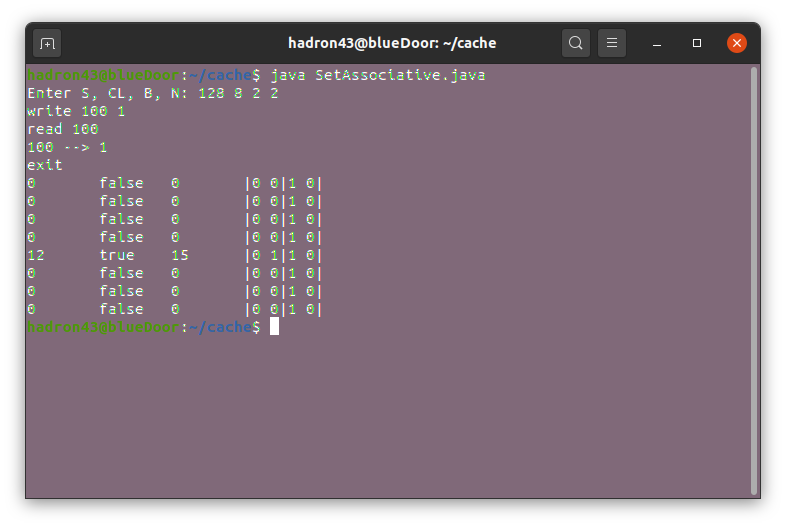
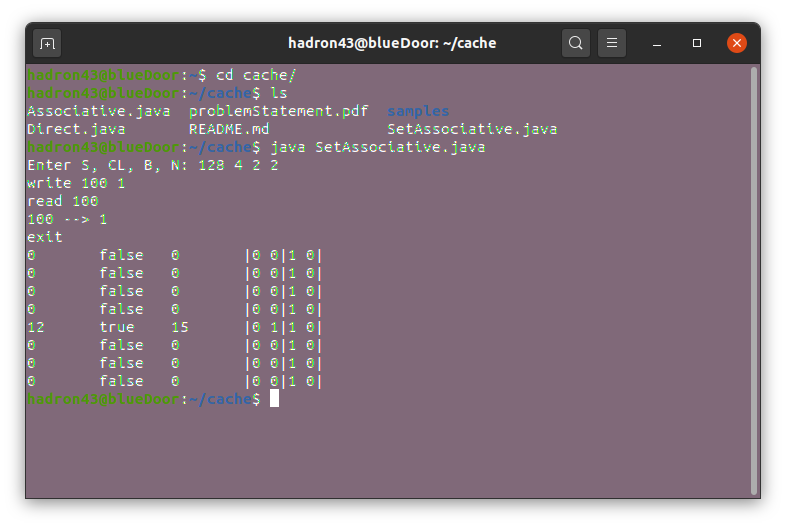
Changed the SetAssociate Screenshot Changed the No of Lines input

Changed region(s): [[0.0305, 0.1214, 0.7023, 0.5161], [0.0305, 0.6072, 0.4275, 0.7894]]

diff --git a/SetAssociative.java b/SetAssociative.java
@@ -165,7 +165,7 @@ public class SetAssociative {
         int B = sc.nextInt();
         int N = sc.nextInt();
         
-        Cache cache = new Cache(S, CL, B, N);
+        Cache cache = new Cache(S, CL*N, B, N);
 
         boolean Q = true;
 
